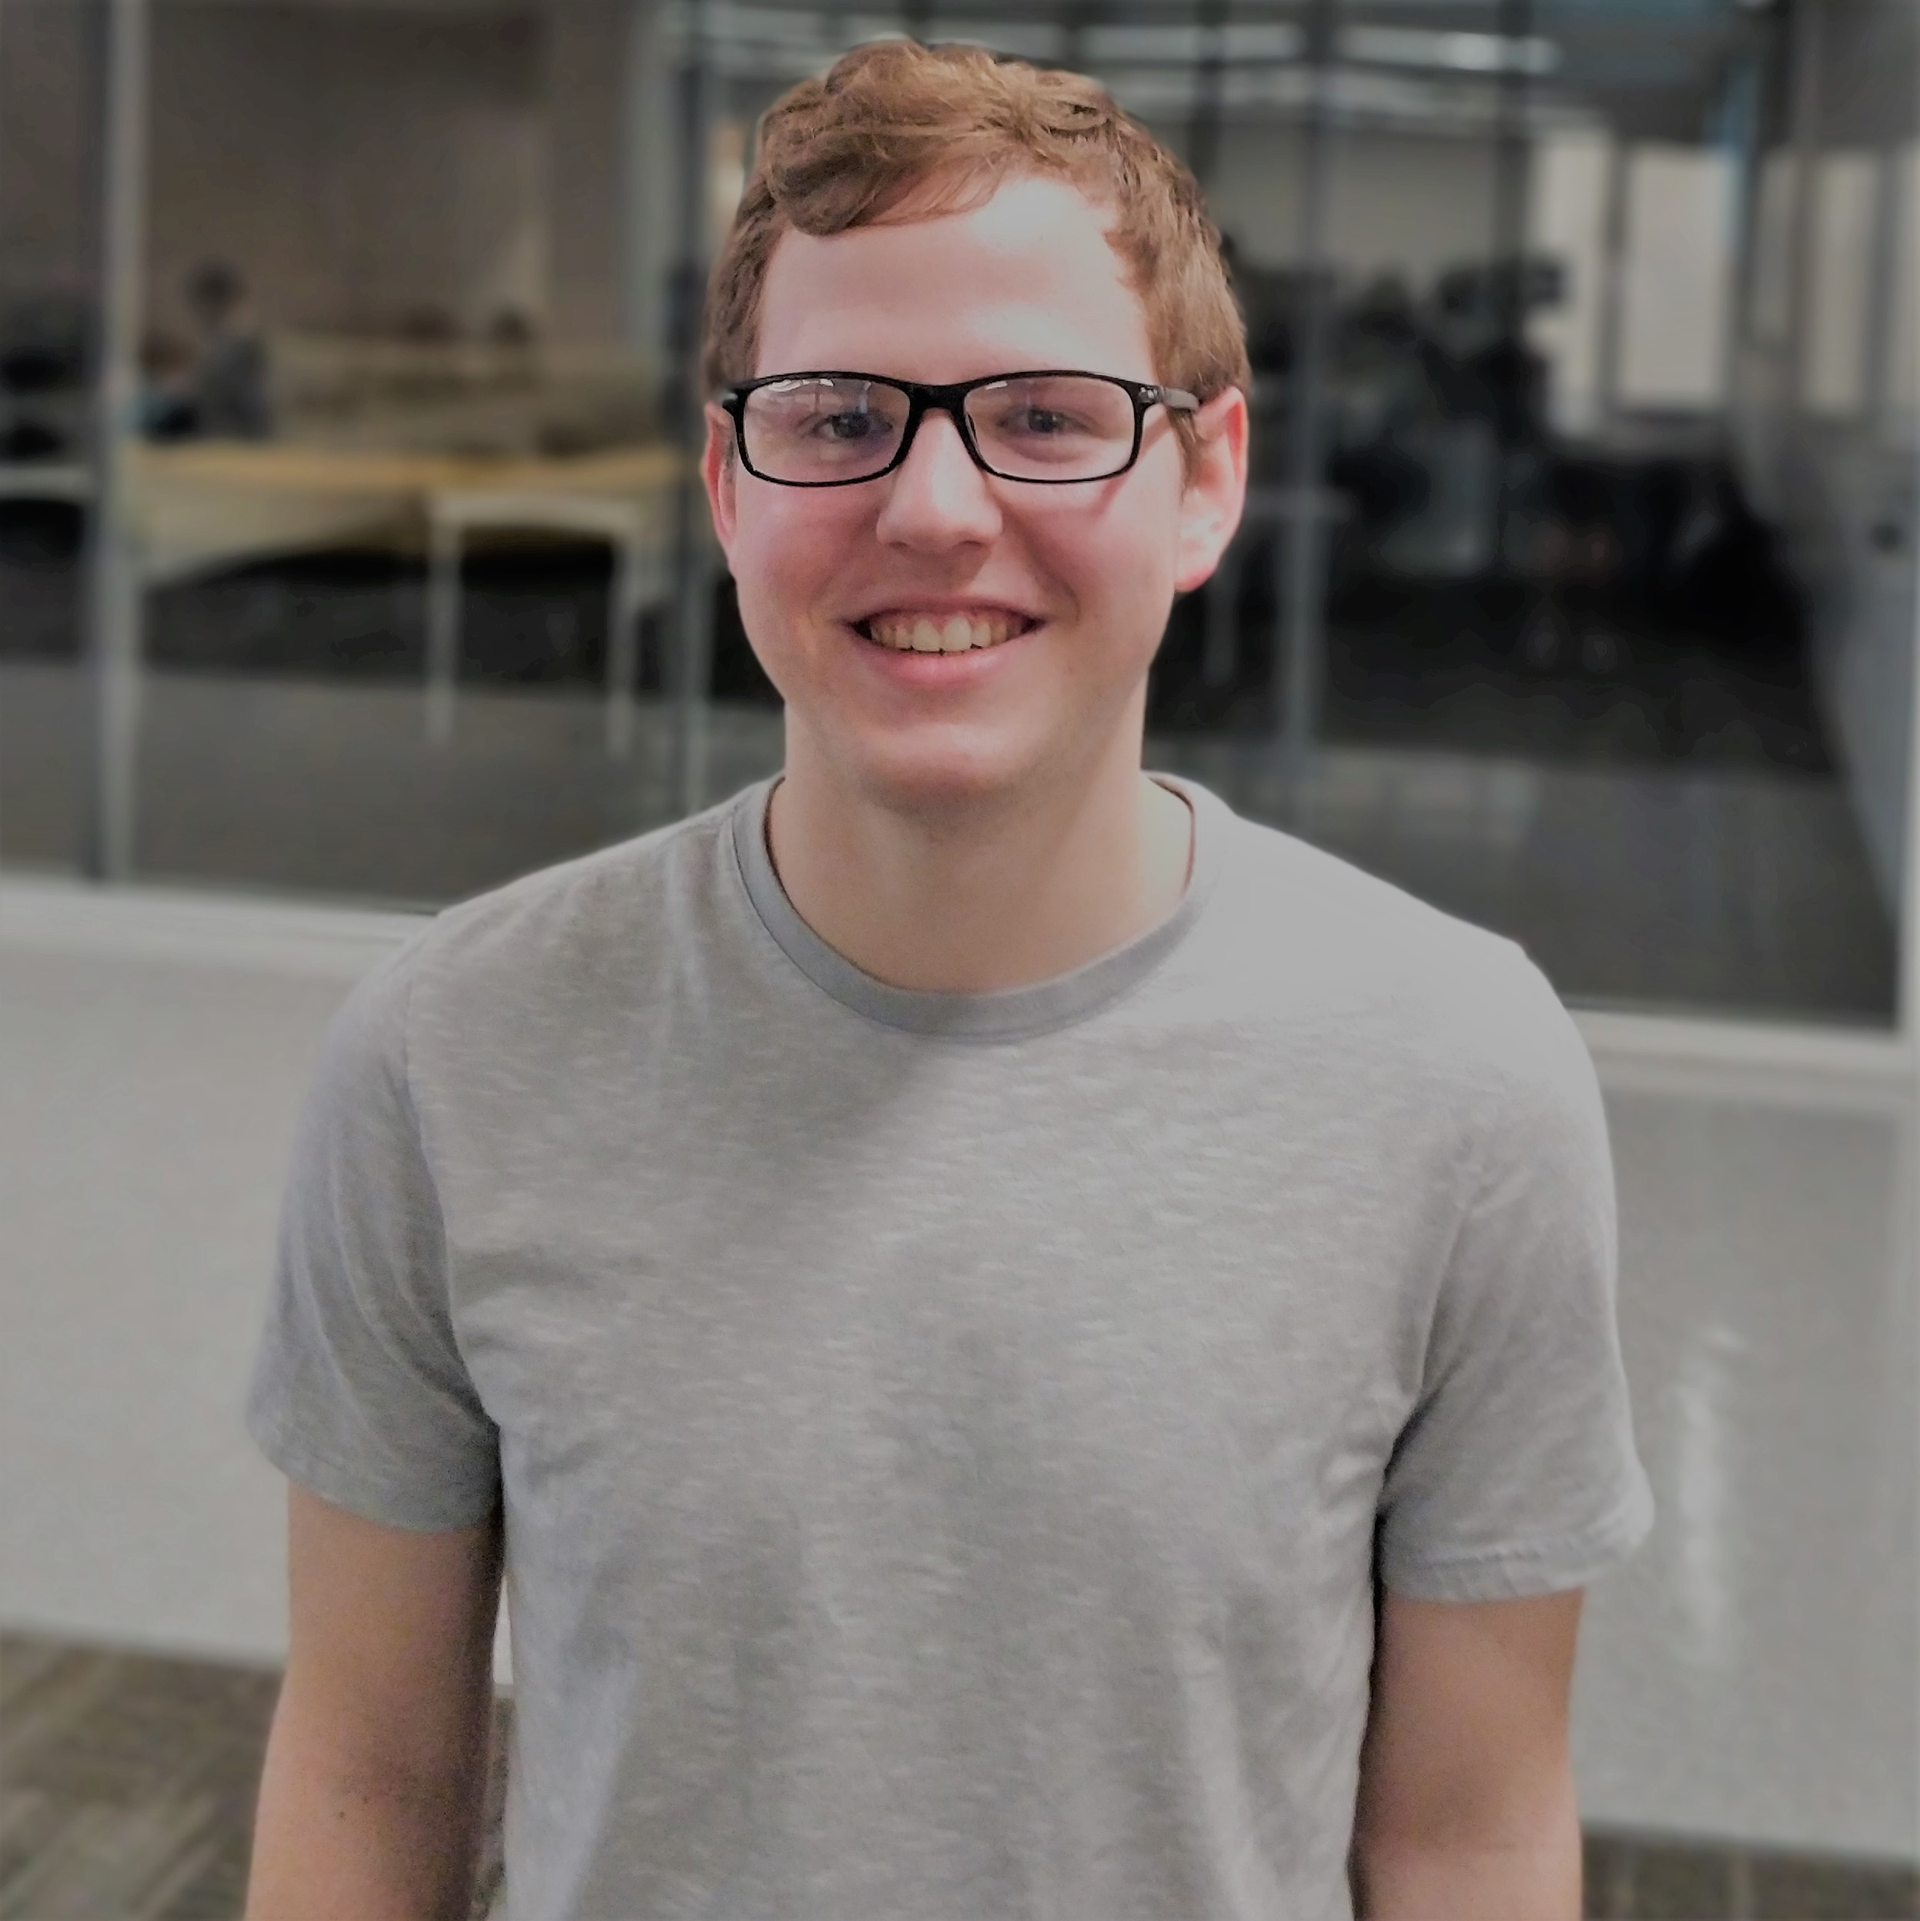
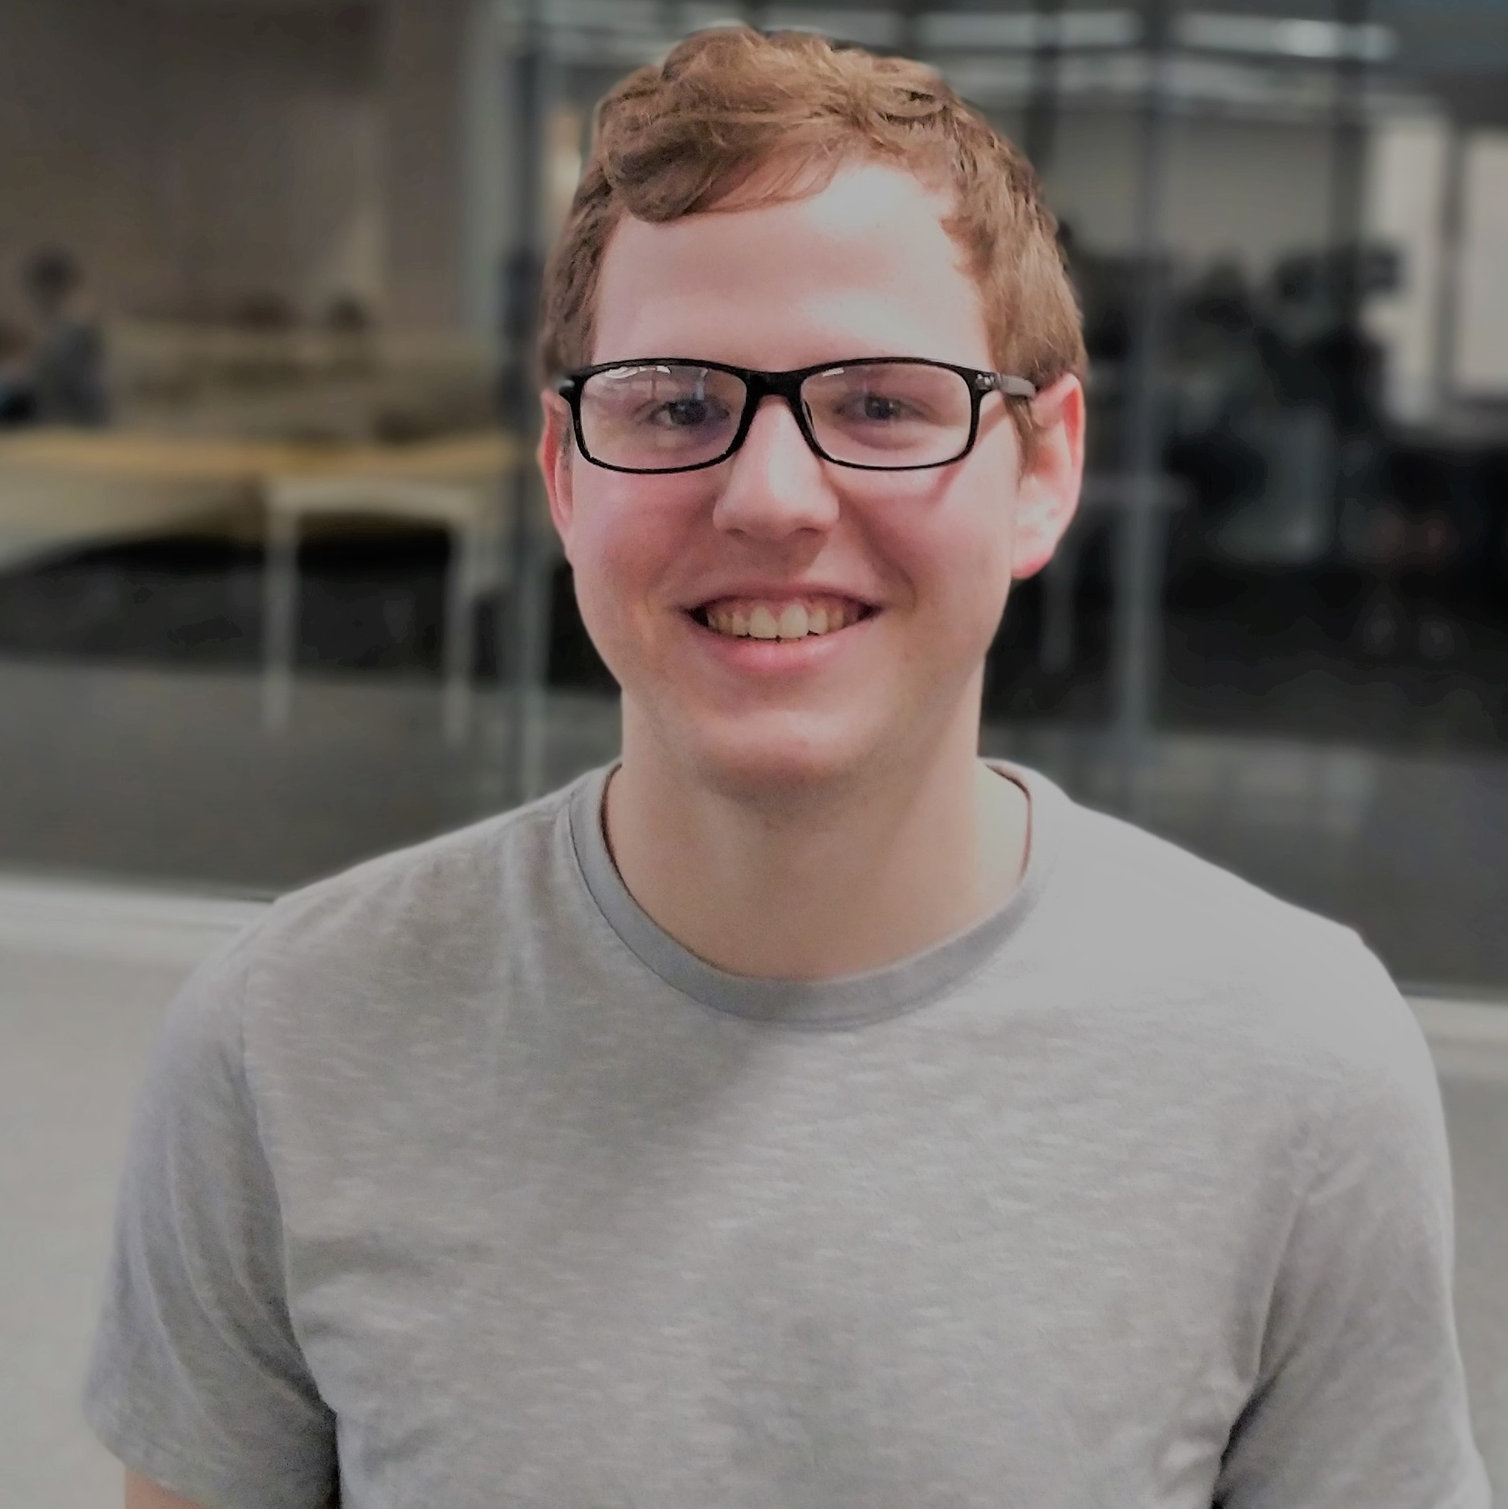
Added Omar picture

diff --git a/docs/index.html b/docs/index.html
@@ -396,7 +396,7 @@
           </div>
           <div class="col-sm-4">
             <div class="team-member">
-              <img class="mx-auto rounded-circle" src="img/team/Graphicloads-Flat-Finance-Person.ico" alt="">
+              <img class="mx-auto rounded-circle" src="img/team/omarB.jpg" alt="">
               <h4>Omar Badat</h4>
               <p class="text-muted">Gameplay Balance</p>
               <ul class="list-inline social-buttons">
